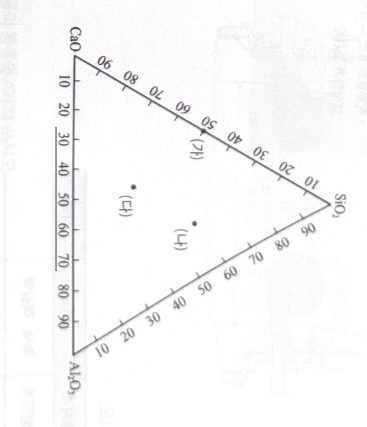
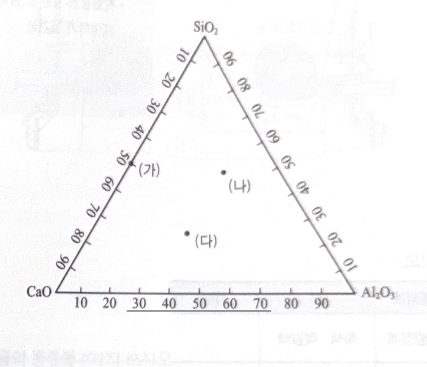
fix: 엑셀에 회전된 채 삽입된 그림 12장 바로 세우기
전수 확인 후 회전맵 적용 — 부두아 곡선(8)·슬래그 삼원계(2)·소결 공정도(1) +90°, 풍구 단면(1) -90°.

diff --git a/build/extract.py b/build/extract.py
@@ -6,6 +6,16 @@ from derive import derive_keywords, compute_groups, normalize
 
 MAX_IMG_WIDTH = 1000  # 큰 스캔 이미지를 모바일 친화적 크기로 축소
 
+# 엑셀에 회전된 채 삽입된 그림을 바로 세우는 맵. 키=f"{sheet}_{index}", 값=CCW 각도.
+# (전수 확인 결과: 부두아 곡선·슬래그 삼원계·소결 공정도는 +90, 풍구 단면은 -90)
+ROTATE = {
+    "21-1_1": 90, "21-2_1": 90, "22-1_1": 90, "23-1_0": 90,
+    "24-1_1": 90, "24-2_0": 90, "25-1_2": 90, "25-2_0": 90,  # 부두아(8장 동일)
+    "21-1_3": 90, "24-2_1": 90,                               # 슬래그 삼원계
+    "21-1_4": 90,                                             # 소결 공정도
+    "21-2_0": -90,                                            # 풍구 단면
+}
+
 ROUND_SHEETS = ["21-1", "21-2", "22-1", "22-2", "23-1", "23-2",
                 "24-1", "24-2", "25-1", "25-2"]
 WRONG_SHEET = "틀린문제"
@@ -39,16 +49,19 @@ def _extract_images(ws, sheet_id, out_dir, starts):
         except Exception:
             continue
         owner = max([s for s in starts if s <= anchor_row], default=None)
-        fname = f"{sheet_id}_{i}.jpg"
-        _save_optimized(img._data(), os.path.join(out_dir, fname))
+        key = f"{sheet_id}_{i}"
+        fname = key + ".jpg"
+        _save_optimized(img._data(), os.path.join(out_dir, fname), ROTATE.get(key, 0))
         mapping.setdefault(owner, []).append(f"images/{fname}")
     return mapping
 
 
-def _save_optimized(raw_bytes, path):
-    """스캔 이미지를 최대 폭 이하로 축소하고 JPEG로 재저장(용량 절감)."""
+def _save_optimized(raw_bytes, path, rotate=0):
+    """스캔 이미지를 (필요 시 회전 후) 최대 폭 이하로 축소하고 JPEG로 재저장."""
     try:
         im = Image.open(io.BytesIO(raw_bytes)).convert("RGB")
+        if rotate:
+            im = im.rotate(rotate, expand=True)
         if im.width > MAX_IMG_WIDTH:
             h = round(im.height * MAX_IMG_WIDTH / im.width)
             im = im.resize((MAX_IMG_WIDTH, h), Image.LANCZOS)
